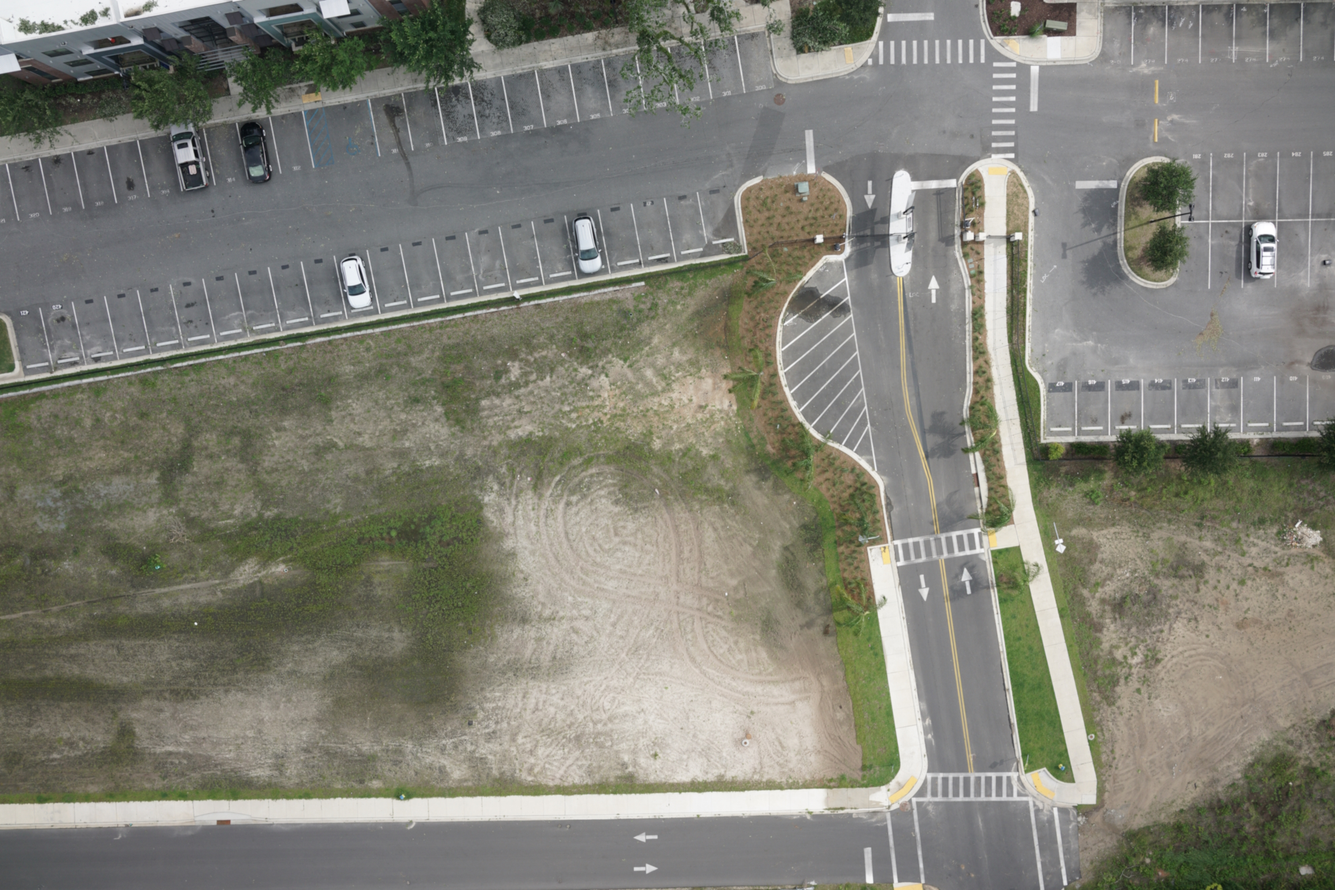
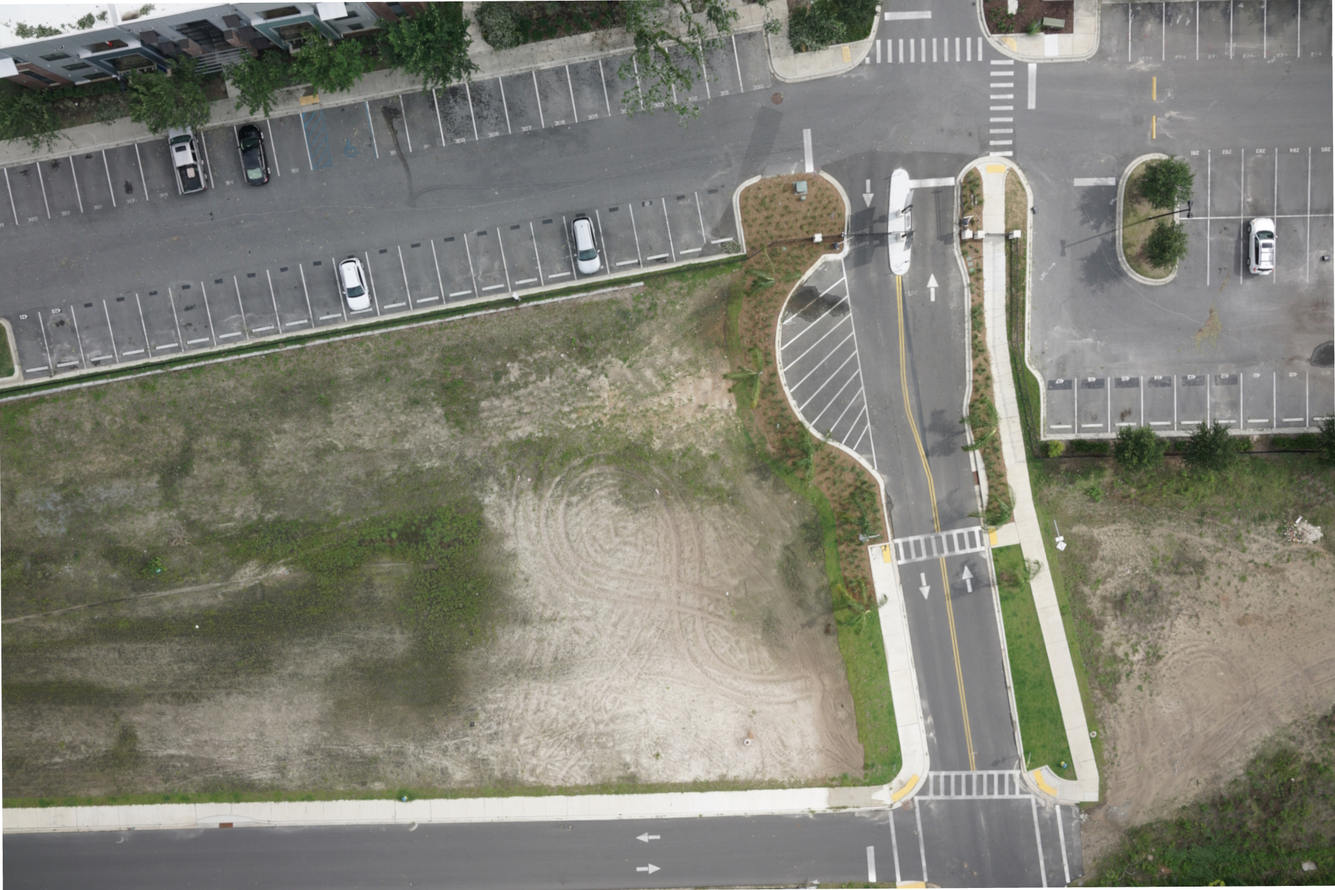
some more contrast

diff --git a/noise_detector/bitmap_processor.cs b/noise_detector/bitmap_processor.cs
@@ -50,5 +50,73 @@ namespace noise_detector
 
             return result;
         }
+
+        public Bitmap HeightsToStrictBitmap(int[,] heights, float scale, int margin)
+        {
+            int w = heights.GetLength(0), h = heights.GetLength(1);
+            Bitmap result = new Bitmap(w, h);
+            bool[,] marginCross = new bool[w, h];
+
+            for (int i = 0; i < w; i++)
+                for (int j = 0; j < h; j++)
+                {
+                    byte val = (byte)Math.Max(0, Math.Min(255, (int)(heights[i, j] * scale)));
+
+                    marginCross[i, j] = val > margin;
+                    val = (byte)Math.Min(255, Math.Max(0, val * 2 - margin));
+
+                    result.SetPixel(i, j, Color.FromArgb(val, val, val));
+                }
+
+
+            for (int i = 0; i < w; i++)
+                for (int j = 0; j < h; j++)
+                {
+                    if (marginCross[i, j])
+                    {
+                        bool ajacentBright = false;
+                        for (int k = Math.Max(0, i - 1); k < Math.Min(i + 2, w) && !ajacentBright; k++)
+                            for (int q = Math.Max(0, j - 1); q < Math.Min(j + 2, h) && !ajacentBright; q++)
+                                if(k!=i||q!=j)
+                                    ajacentBright = marginCross[k, q];
+
+                        if (!ajacentBright)
+                        {
+                            byte val = (byte)(Math.Max(0, Math.Min(255, (int)(heights[i, j] * scale)))-margin);
+                           
+                            result.SetPixel(i, j, Color.FromArgb(val, val, val));
+                        }
+                    }
+                }
+                 
+            return result;
+        }
+
+        public Bitmap HeightsToColoredBitmap(int[,] heights, float scale, int greenMax, int YellowMax)
+        {
+            int w = heights.GetLength(0), h = heights.GetLength(1);
+            Bitmap result = new Bitmap(w, h);
+
+            for (int i = 0; i < w; i++)
+                for (int j = 0; j < h; j++)
+                {
+                    byte val = (byte)Math.Max(0, Math.Min(255, (int)(heights[i, j] * scale)));
+                    byte r=0, g=0, b=0;
+
+                    if (val <= greenMax)
+                        g = val;
+                    else if (val <= YellowMax)
+                    {
+                        g = val;
+                        r = val;
+                    }
+                    else
+                        r = val;
+
+                    result.SetPixel(i, j, Color.FromArgb(r, g, b));
+                }
+
+            return result;
+        }
     }
 }

diff --git a/noise_detector/interface.cs b/noise_detector/interface.cs
@@ -29,7 +29,11 @@ namespace noise_detector
             string[] images = Directory.GetFiles(path);
 
             for (int i = 0; i < images.Length; i++)
+            {
                 ProcessImage(images[i], savepath, rad, pt);
+                GC.Collect();
+                GC.WaitForPendingFinalizers();
+            }
 
             Console.WriteLine($"Work done. Results in {savepath}");
         }
@@ -40,8 +44,8 @@ namespace noise_detector
 
             BitmapProcessor btp = new BitmapProcessor();
 
-            Bitmap res1 = btp.HeightsToBitmap(myLittleNoiseMap.AverageNoiseMap(
-                myLittleNoiseMap.Width / 50, myLittleNoiseMap.Width / 50, radius, plantTolerance), 0.33f);
+            Bitmap res1 = btp.HeightsToStrictBitmap(myLittleNoiseMap.AverageNoiseMap(
+                myLittleNoiseMap.Width / 50, myLittleNoiseMap.Width / 50, radius, plantTolerance), 1f, 30);
             
             res1.Save(savepath+Path.GetFileNameWithoutExtension(path)+".png");
             Console.WriteLine("done processing \"" + Path.GetFileName(path) + "\"");
